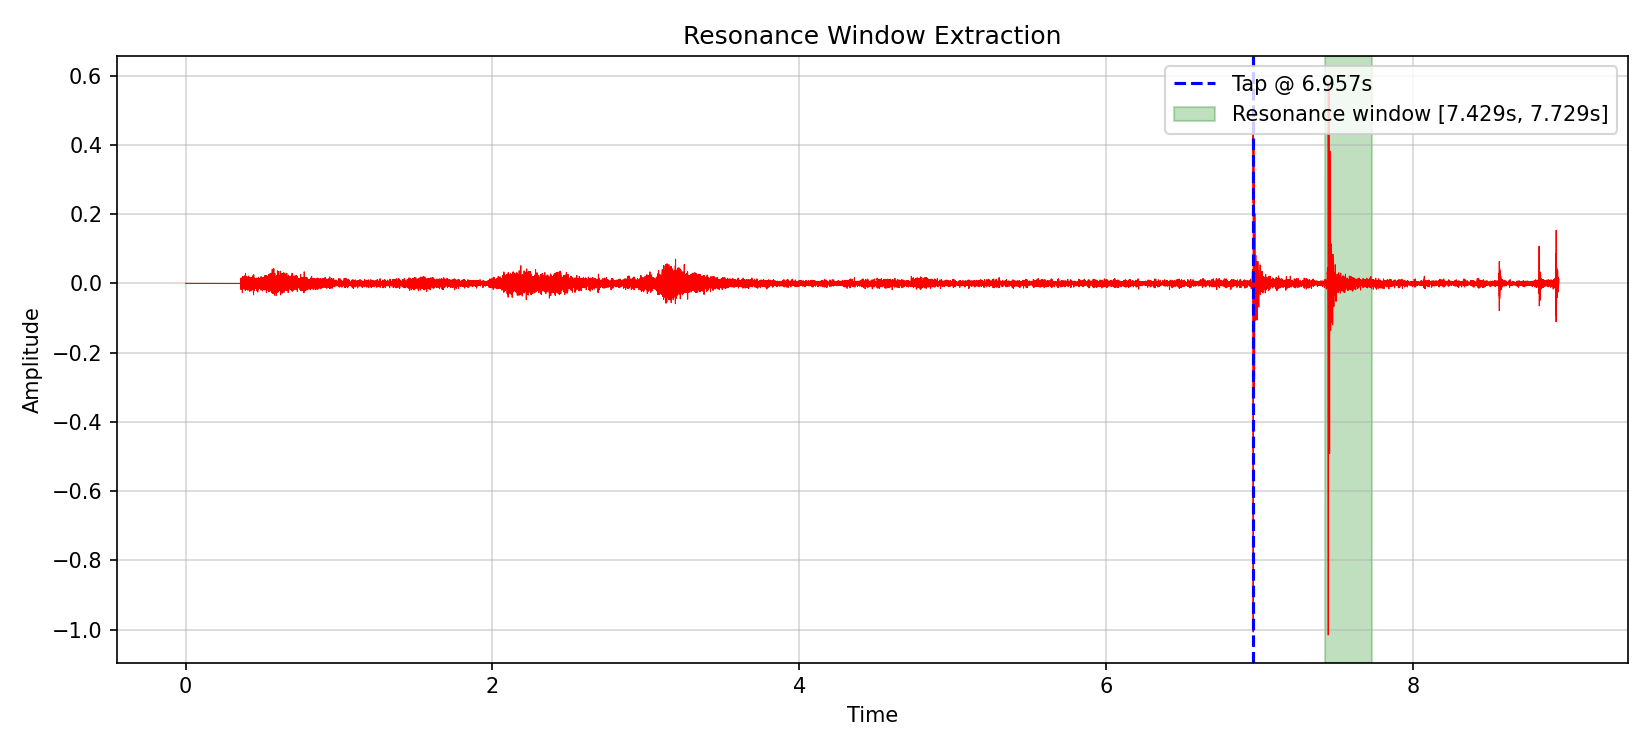
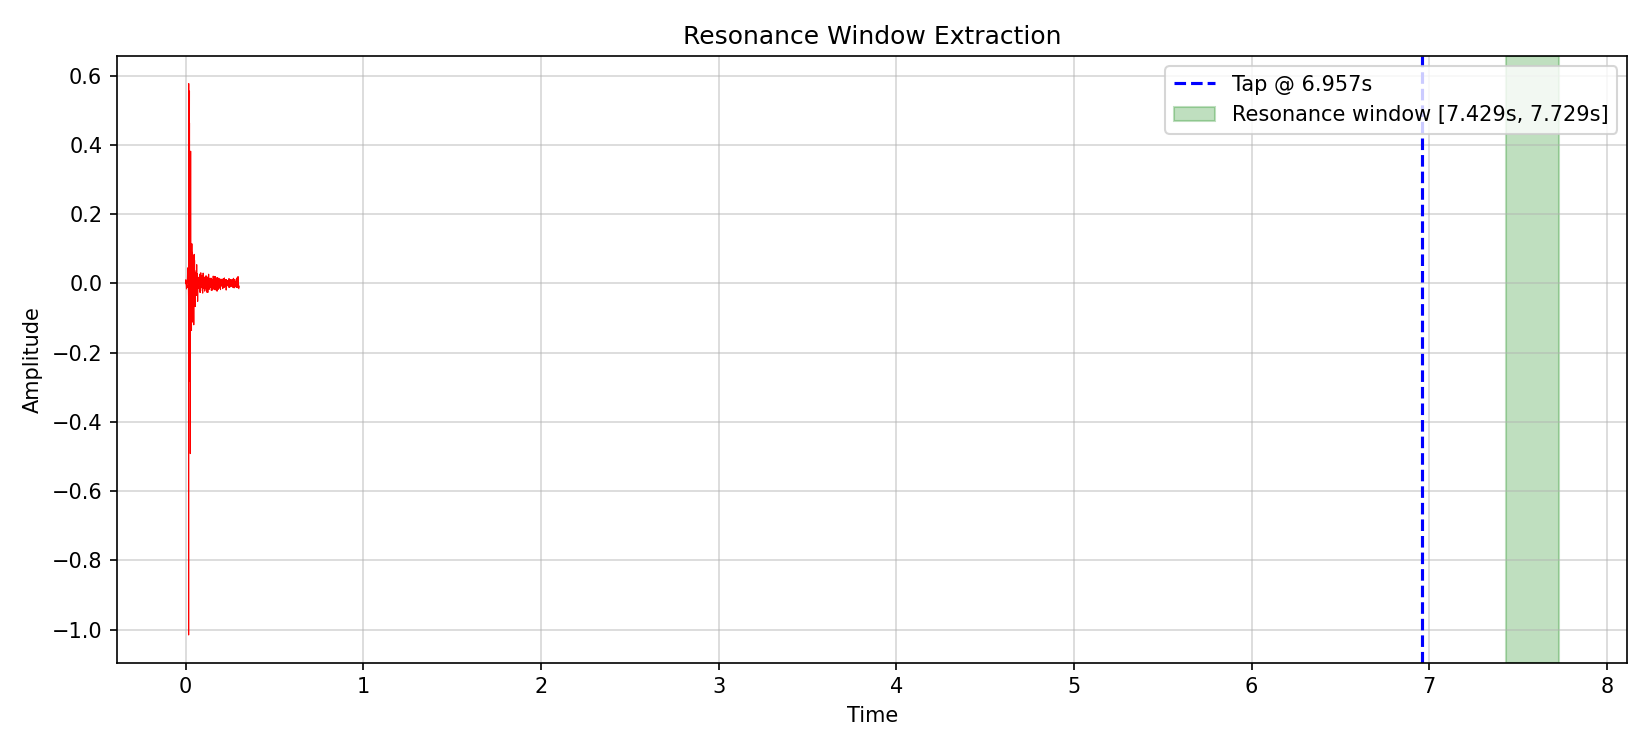
Added time domain code

diff --git a/main.py b/main.py
@@ -2,10 +2,10 @@ import os                                          # for creating the plots fold
 import numpy as np                                 # numeric arrays, thresholds, math
 import librosa                                      # audio loading + RMS energy framing
 import matplotlib.pyplot as plt                     # plotting and saving figures
-from scipy.signal import butter, sosfiltfilt, find_peaks        # Butterworth bandpass filter design + zero-phase application
+from scipy.signal import butter, sosfiltfilt, find_peaks, hilbert        # Butterworth bandpass filter design + zero-phase application
 import librosa.display                             # for spectrogram matrix
 
-
+WATERMELON_MASS = 5000              # 5000 grams
 AUDIO_PATH = "./audio/sample_2.wav"   
 PLOTS_DIR = "plots"                
 LOW_HZ = 80                         # bandpass: frequencies below this are removed (rumble/DC drift)
@@ -205,6 +205,46 @@ def plot_resonance_window(audio, sr, tap_sample, start_sample, end_sample, title
     print(f"Saved: {save_path}")      # confirm output location
 
 # feature extraction pipeline
+def extract_time_domain_features(audio, sample_rate):
+    """
+    Extracts features directly from the raw time-domain voltage waveform.
+    Parameters:
+    - audio_data (np.ndarray): 1D array of raw audio amplitudes.
+    - sample_rate (int): Sampling rate of the audio.
+    
+    Returns:
+    - dict: Time-domain metrics (amplitude, energy, ZCR, decay rate).
+    """
+    time_features = {}
+    
+    # Peak Amplitude (A_max)
+    time_features['peak_amplitude'] = float(np.max(np.abs(audio)))
+    
+    # RMS Energy
+    time_features['rms_energy'] = float(np.sqrt(np.mean(audio ** 2)))
+    
+    # Zero-Crossing Rate (ZCR)
+    zero_crossings = np.where(np.diff(np.sign(audio)))[0]
+    time_features['zero_crossing_rate'] = float(len(zero_crossings) / len(audio))
+    
+    # Damping Coefficient (Alpha) via Hilbert Transform Envelope
+    analytic_signal = hilbert(audio)
+    amplitude_envelope = np.abs(analytic_signal)
+    # Prevent log(0) errors
+    amplitude_envelope = np.where(amplitude_envelope == 0, 1e-8, amplitude_envelope)
+    log_envelope = np.log(amplitude_envelope) 
+    # Fit line: log(amplitude) = alpha * time + intercept
+    time_axis = np.arange(len(audio)) / sample_rate
+    slope, _ = np.polyfit(time_axis, log_envelope, 1)
+    
+    time_features['damping_coefficient'] = float(slope)
+    
+    return time_features
+
+
+
+
+
 def analyze_resonance_fft(resonance_audio, sr, title, save_path, low_hz=LOW_HZ, high_hz=HIGH_HZ):
     """
     Compute the FFT of the resonance window, find the dominant frequency (Fmax),
@@ -304,9 +344,13 @@ def main():
     )                                                                   
     print(f"Resonance window: {start_sample/sr:.4f}s -> {end_sample/sr:.4f}s "
           f"({(end_sample-start_sample)/sr:.4f}s long)")                  # report the extracted window's bounds
-    plot_resonance_window(filtered, sr, tap_sample, start_sample, end_sample,
+    plot_resonance_window(resonance_audio, sr, tap_sample, start_sample, end_sample,
                            "Resonance Window Extraction",
                            os.path.join(PLOTS_DIR, "resonance_window.png"))  
+
+    # take the time domain features and console log it 
+    time_domain_features = extract_time_domain_features(resonance_audio, sample_rate=sr)
+    print(time_domain_features)
 
     print("Maximum Frequency from this audio file is: ", analyze_resonance_fft(resonance_audio, sr, title="Frequency Distribution", save_path=os.path.join(PLOTS_DIR,"FFT Graph.png")))
     